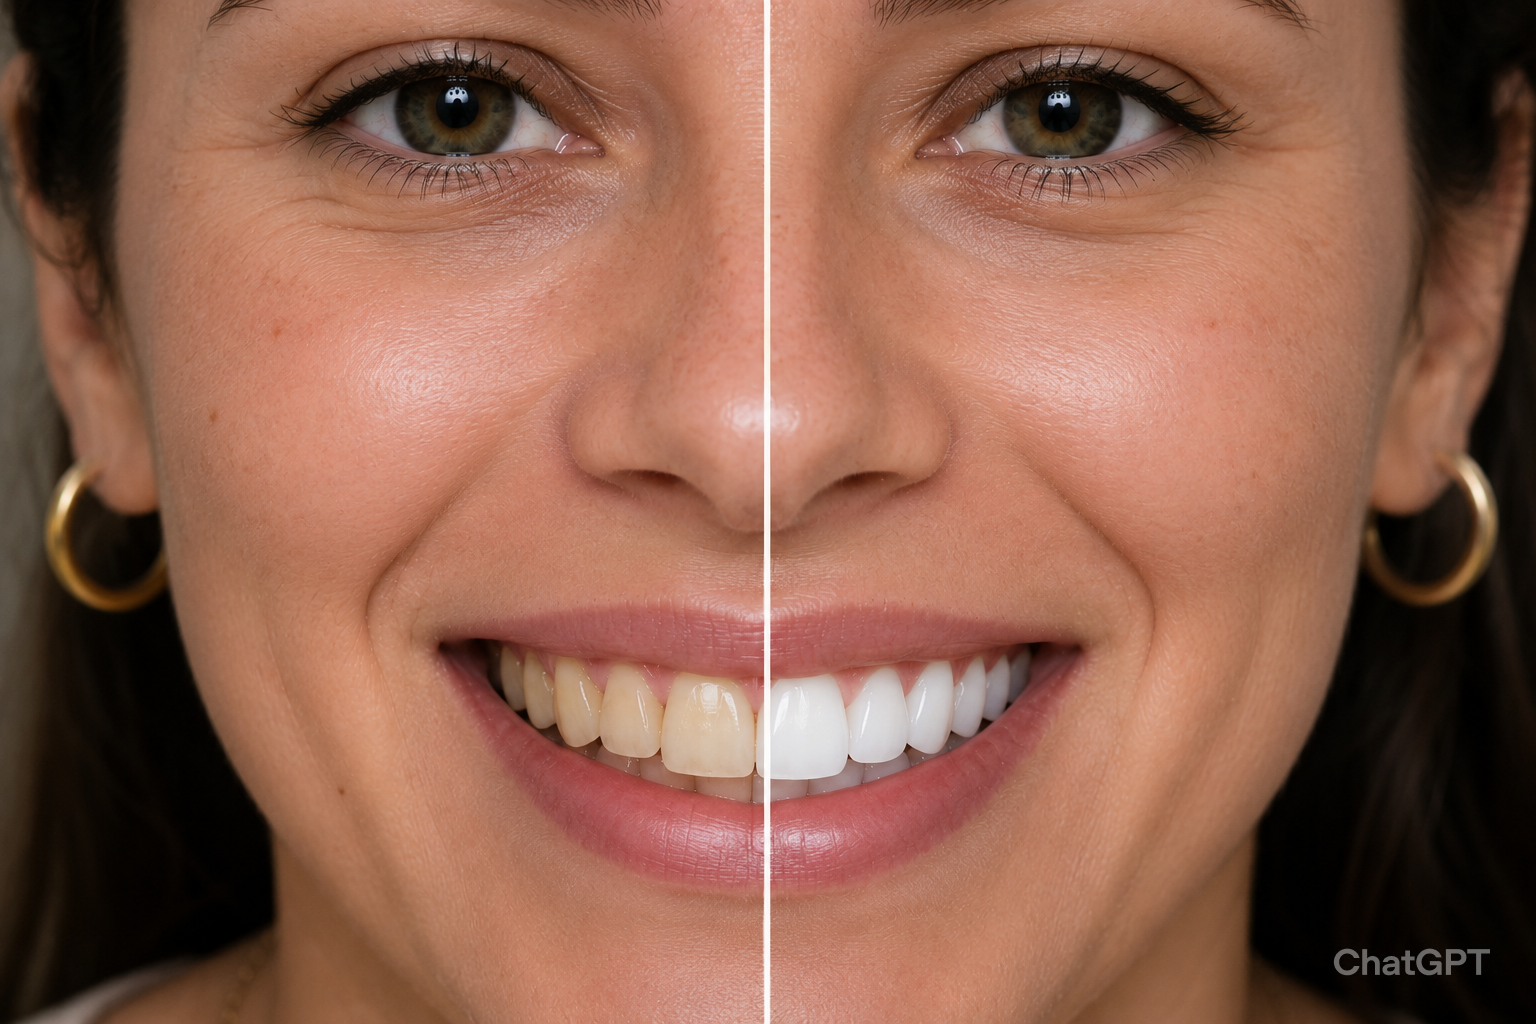
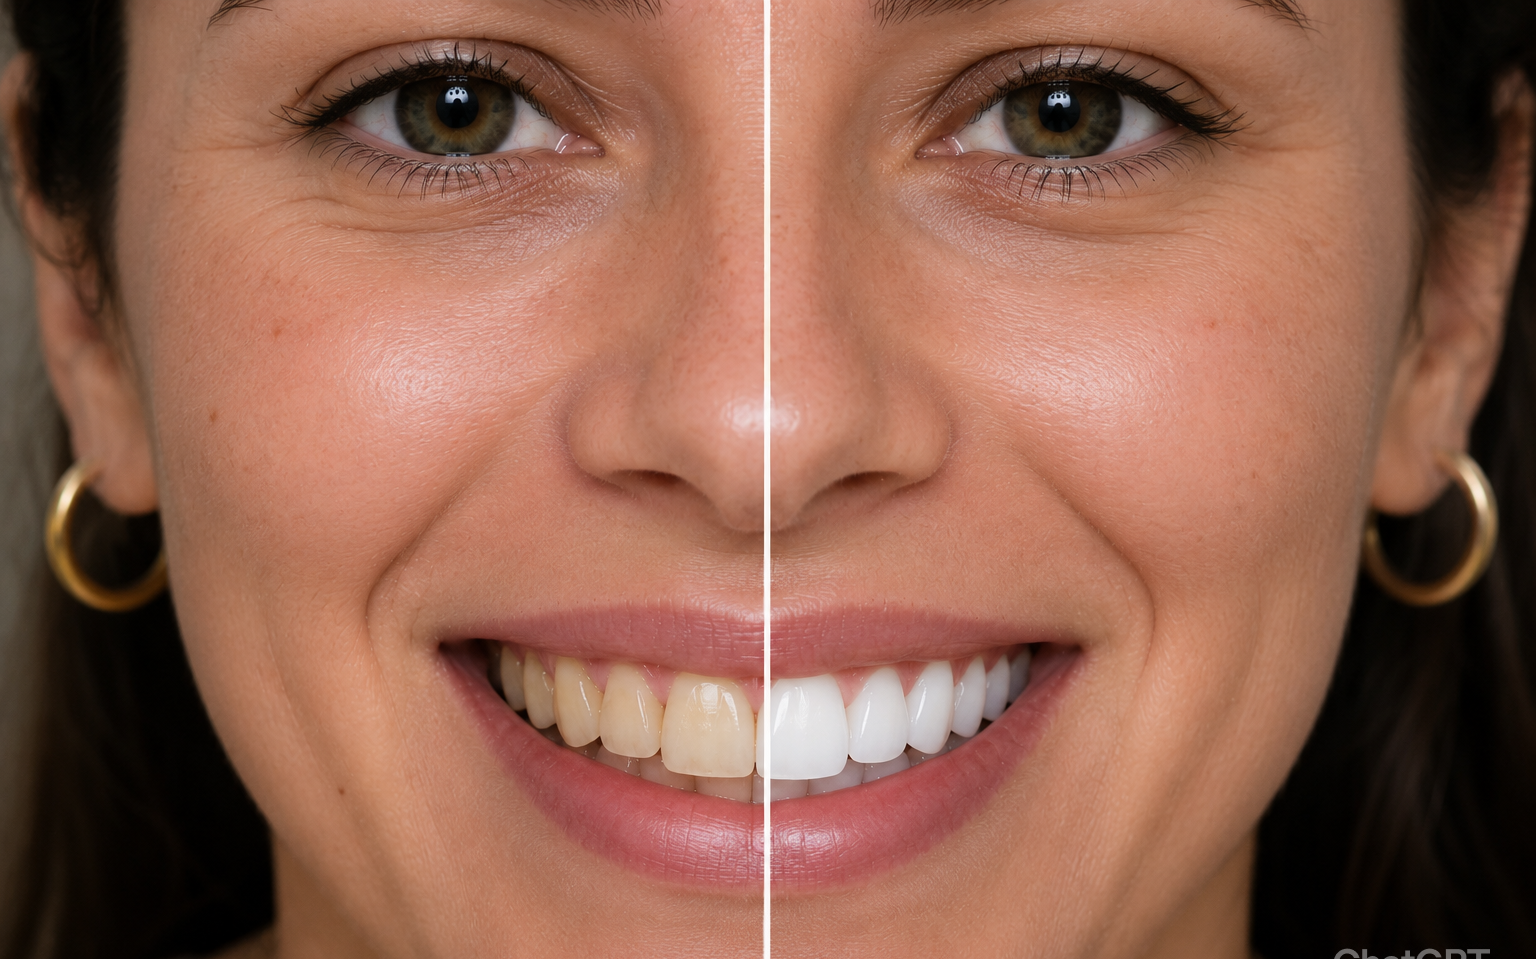
design: crop chatgpt watermark from images and add premium background details to results section

diff --git a/src/components/BeforeAfter.tsx b/src/components/BeforeAfter.tsx
@@ -31,7 +31,11 @@ const BeforeAfter = () => {
     const prev = () => setCurrentIndex((prev) => (prev - 1 + cases.length) % cases.length);
 
     return (
-        <section className="bg-white py-24 sm:py-32 overflow-hidden" id="resultados">
+        <section className="bg-white py-24 sm:py-32 overflow-hidden relative" id="resultados">
+            {/* Decorações premium de fundo */}
+            <div className="absolute top-0 left-0 w-[500px] h-[500px] bg-[radial-gradient(circle_at_center,rgba(20,184,166,0.03),transparent_70%)] blur-[80px] pointer-events-none -z-10"></div>
+            <div className="absolute bottom-0 right-0 w-[500px] h-[500px] bg-[radial-gradient(circle_at_center,rgba(59,130,246,0.03),transparent_70%)] blur-[80px] pointer-events-none -z-10"></div>
+
             <div className="container mx-auto px-6">
                 
                 {/* Cabeçalho Centralizado Padronizado */}
